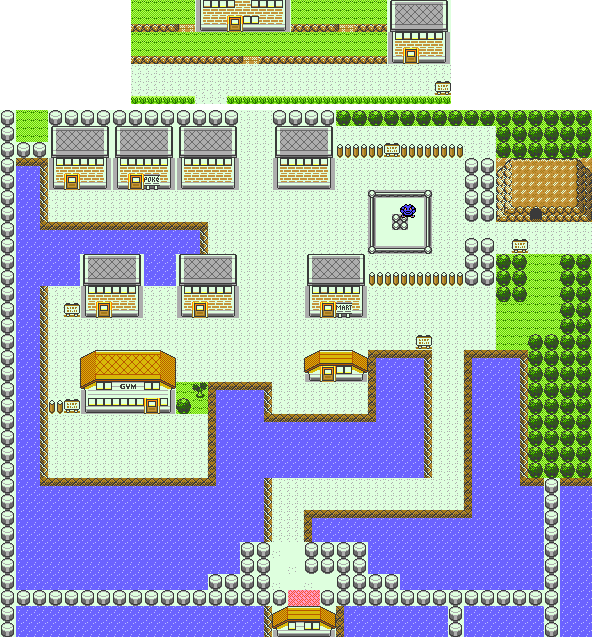
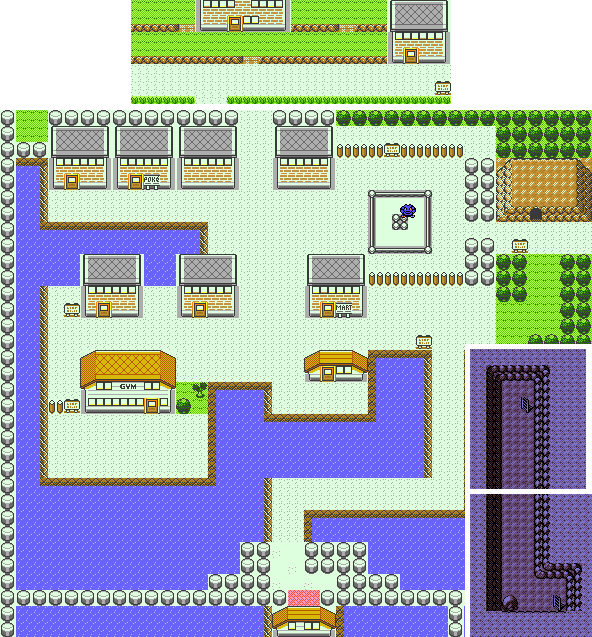
Added diglett's cave and tohjo falls to crystal

Changed region(s): [[0.7601, 0.5369, 1.0, 1.0]]

diff --git a/games/crystal.js b/games/crystal.js
@@ -47,7 +47,8 @@ var crystal = {
         r38_r39:       {x: 26,  y: 16,  w: 8,  h: 8,  name: "Route 38\nRoute 39"      },
         r41:           {x: 11,  y: 52,  w: 8,  h: 8,  name: "Route 41"                },
         ragelake_r43:  {x: 91,  y: 0,   w: 8,  h: 8,  name: "Lake of Rage\nRoute 43"  },
-        r26_r27:       {x: 149, y: 66,  w: 14, h: 14, name: "Route 26\nRoute 27"      },
+        r26_r27:       {x: 137, y: 66,  w: 26, h: 14, name: "Route 26\nRoute 27"      },
+
         
         r2:            {x: 179, y: 36,  w: 8,  h: 8,  name: "Route 2"                 },
         r19_r20:       {x: 195, y: 104, w: 8,  h: 8,  name: "Route 19\nRoute 20"      },
@@ -232,16 +233,18 @@ var crystal = {
 			gate:       {x: 238, y: 474                              },
         },
         vermilion_r6: {
-			fish:    {x: 72,  y: 149                               },
-			center:  {x: 137, y: 208                               },
-			club:    {x: 105, y: 273                               },
-			trade:   {x: 202, y: 338                               },
-			mart:    {x: 331, y: 277                               },
-			gym:     {x: 124, y: 371, name: "Vermilion City (Gym)" },
-			botmart: {x: 331, y: 402                               },
-			digglet: {x: 528, y: 192, name: "Vermilion (Diglett)"  },
-            gate:    {x: 233, y: 46                                },
-			tunnel:  {x: 409, y: 19,  name: "Vermilion(Underpass)" },
+			fish:    {x: 72,  y: 149                                                            },
+			center:  {x: 137, y: 208                                                            },
+			club:    {x: 105, y: 273                                                            },
+			trade:   {x: 202, y: 338                                                            },
+			mart:    {x: 331, y: 277                                                            },
+			gym:     {x: 124, y: 371,                              name: "Vermilion City (Gym)" },
+			botmart: {x: 331, y: 402                                                            },
+			digglet: {x: 528, y: 192,                              name: "Vermilion (Diglett)"  },
+            gate:    {x: 233, y: 46                                                             },
+			tunnel:  {x: 409, y: 19,                               name: "Vermilion(Underpass)" },
+			diglett_top: {x: 518, y: 432, corridor: "diglett_bot", name: "Diglett's Cave" },
+			diglett_bot: {x: 518, y: 565, corridor: "diglett_top", name: "Diglett's Cave" },
         },
         celadon_r7: {
 			mart:       {x: 62,  y: 119                             },
@@ -353,12 +356,14 @@ var crystal = {
 			tm_top:   {x: 310, y: 140, corridor: "tm_bot", name: "Gate R43 (Rockets)" },
         },
         r26_r27: {
-			left:      {x: 57,  y: 59,  name: "Route 27" },
-			right:     {x: 216, y: 60,  name: "Route 27" },
-			house1:    {x: 169, y: 144, name: "Route 27" },
-			house2:    {x: 356, y: 157, name: "Route 26" },
-			house3:    {x: 485, y: 158, name: "Route 26" },
-			reception: {x: 421, y: 52,  name: "Route 26" },
+			left:        {x: 57,  y: 59,                           name: "Route 27" },
+			right:       {x: 216, y: 60,                           name: "Route 27" },
+			house1:      {x: 169, y: 144,                          name: "Route 27" },
+			house2:      {x: 356, y: 157,                          name: "Route 26" },
+			house3:      {x: 485, y: 158,                          name: "Route 26" },
+			reception:   {x: 421, y: 52,                           name: "Route 26" },
+			falls_left:  {x: 251, y: 424, corridor: "falls_right", name: "Tohjo Falls" },
+			falls_right: {x: 442, y: 424, corridor: "falls_left",  name: "Tohjo Falls" },
         },
 
         r2: {
